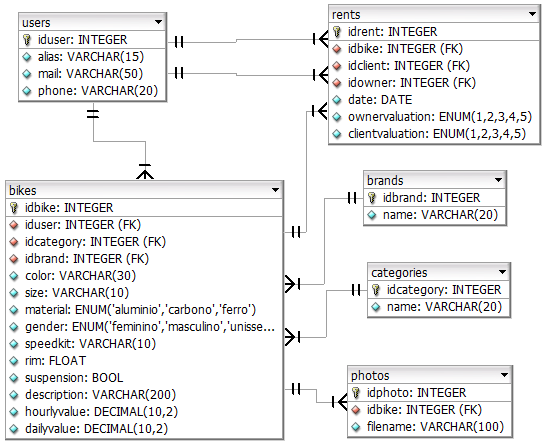
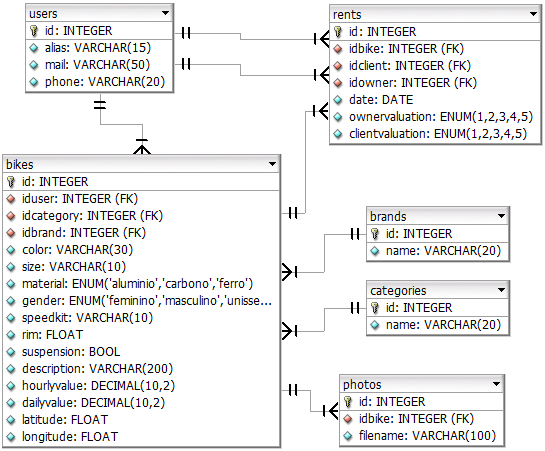
draft

diff --git a/src/controllers/BikeController.ts b/src/controllers/BikeController.ts
@@ -7,7 +7,7 @@ import { Category } from "../entities/Category";
 
 class BikeController {
   public async create(req: Request, res: Response): Promise<Response> {
-    const { iduser, idcategory, idbrand, color, size, material, gender, speedkit, rim, suspension, description, hourlyvalue, dailyvalue } = req.body;
+    const { iduser, idcategory, idbrand, color, size, material, gender, speedkit, rim, suspension, description, hourlyvalue, dailyvalue, latitude, longitude } = req.body;
 
     //obtém o usuário na tabela users
     const user = await AppDataSource.manager.findOneBy(User, { id: iduser });
@@ -27,12 +27,12 @@ class BikeController {
       return res.status(400).json({ error: "Categoria desconhecida", props:"category" });
     }
 
-    const bike = await AppDataSource.manager.save(Bike, { user, brand, category, color, size, material, gender, speedkit, rim, suspension, description, hourlyvalue, dailyvalue });
+    const bike = await AppDataSource.manager.save(Bike, { user, brand, category, color, size, material, gender, speedkit, rim, suspension, description, hourlyvalue, dailyvalue, latitude, longitude });
     return res.json(bike);
   }
 
   public async update(req: Request, res: Response): Promise<Response> {
-    const { id, iduser, idcategory, idbrand, color, size, material, gender, speedkit, rim, suspension, description, hourlyvalue, dailyvalue } = req.body;
+    const { id, iduser, idcategory, idbrand, color, size, material, gender, speedkit, rim, suspension, description, hourlyvalue, dailyvalue, latitude, longitude } = req.body;
 
     //obtém o usuário na tabela users
     const user = await AppDataSource.manager.findOneBy(User, { id: iduser });
@@ -52,7 +52,7 @@ class BikeController {
       return res.status(400).json({ error: "Categoria desconhecida", props:"category" });
     }
 
-    const bike = await AppDataSource.manager.save(Bike, { id, user, brand, category, color, size, material, gender, speedkit, rim, suspension, description, hourlyvalue, dailyvalue });
+    const bike = await AppDataSource.manager.save(Bike, { id, user, brand, category, color, size, material, gender, speedkit, rim, suspension, description, hourlyvalue, dailyvalue, latitude, longitude });
     return res.json(bike);
   }
 
@@ -61,7 +61,8 @@ class BikeController {
       relations: {
         user: true,
         brand: true,
-        category: true
+        category: true,
+        photos: true
       }
     });
     return res.json(bikes);

diff --git a/src/routes/photo.ts b/src/routes/photo.ts
@@ -1,9 +1,7 @@
-import { Router, Request, Response } from "express";
+import express, { Router, Request, Response } from "express";
 import controller from "../controllers/PhotoController";
 import multer from "multer";
 import path from "path";
-
-console.log("fotos", process.env.FOLDERPHOTOS)
 
 // para mais detalhes acesse: https://www.youtube.com/watch?v=FFWNVPysy5I
 const storage = multer.diskStorage({
@@ -23,6 +21,8 @@ const routes = Router();
 routes.post('/', upload.single('file'), controller.create);
 routes.get('/', controller.list);
 routes.delete('/', controller.delete);
+// rota para a pasta public/photos
+routes.use("/public", express.static('public/photos'));
 
 //aceita qualquer método HTTP ou URL
 routes.use( (_:Request,res:Response) => res.json({error:"Requisição desconhecida"}) );

diff --git a/src/entities/Bike.ts b/src/entities/Bike.ts
@@ -35,7 +35,7 @@ export class Bike {
     @Column({ nullable: false, length:10 })
     speedkit: string;
 
-    @Column({ nullable: false })
+    @Column({ nullable: false, type:"float" })
     rim: number;
 
     @Column({ nullable: false })
@@ -49,6 +49,12 @@ export class Bike {
 
     @Column({ nullable: false, type: "decimal", precision:10, scale: 2 })
     dailyvalue: number;
+
+    @Column({ nullable: false, type:"float"  })
+    latitude: number;
+
+    @Column({ nullable: false, type:"float"  })
+    longitude: number;
 
     @ManyToOne(() => Brand, {nullable:false})
     @JoinColumn({ name: "idbrand" })

diff --git a/README.md b/README.md
@@ -16,7 +16,7 @@ $ git clone https://github.com/arleysouza/api-2023-2-2dsm-back.git servidor
 # Acesse a pasta do projeto
 $ cd servidor
 
-# instale as dependencias
+# instale as dependências
 $ yarn install
       ou
 $ npm install
@@ -31,4 +31,17 @@ PASSWORD = 123
 FOLDERPHOTOS = ../../public/photos
 ```
 
+Criar a migração no BD:
+```
+# gerar o arquivo de migração com os comandos SL
+$ npm run migration:generate
 
+# submeter as migrações no SGBD
+$ npm run migration:run
+```
+
+Na figura a seguir estão os passos para carregar um registro na tabela photos usando o Thunder Client do VS Code:
+![](https://github.com/arleysouza/api-2023-2-2dsm-back/blob/master/public/images/file-upload-thunder-client.png)
+
+Para ver a foto no navegador use a URL a seguir, apenas mude o nome do arquivo:
+http://localhost:3001/foto/public/1694291669768-561761172.png
